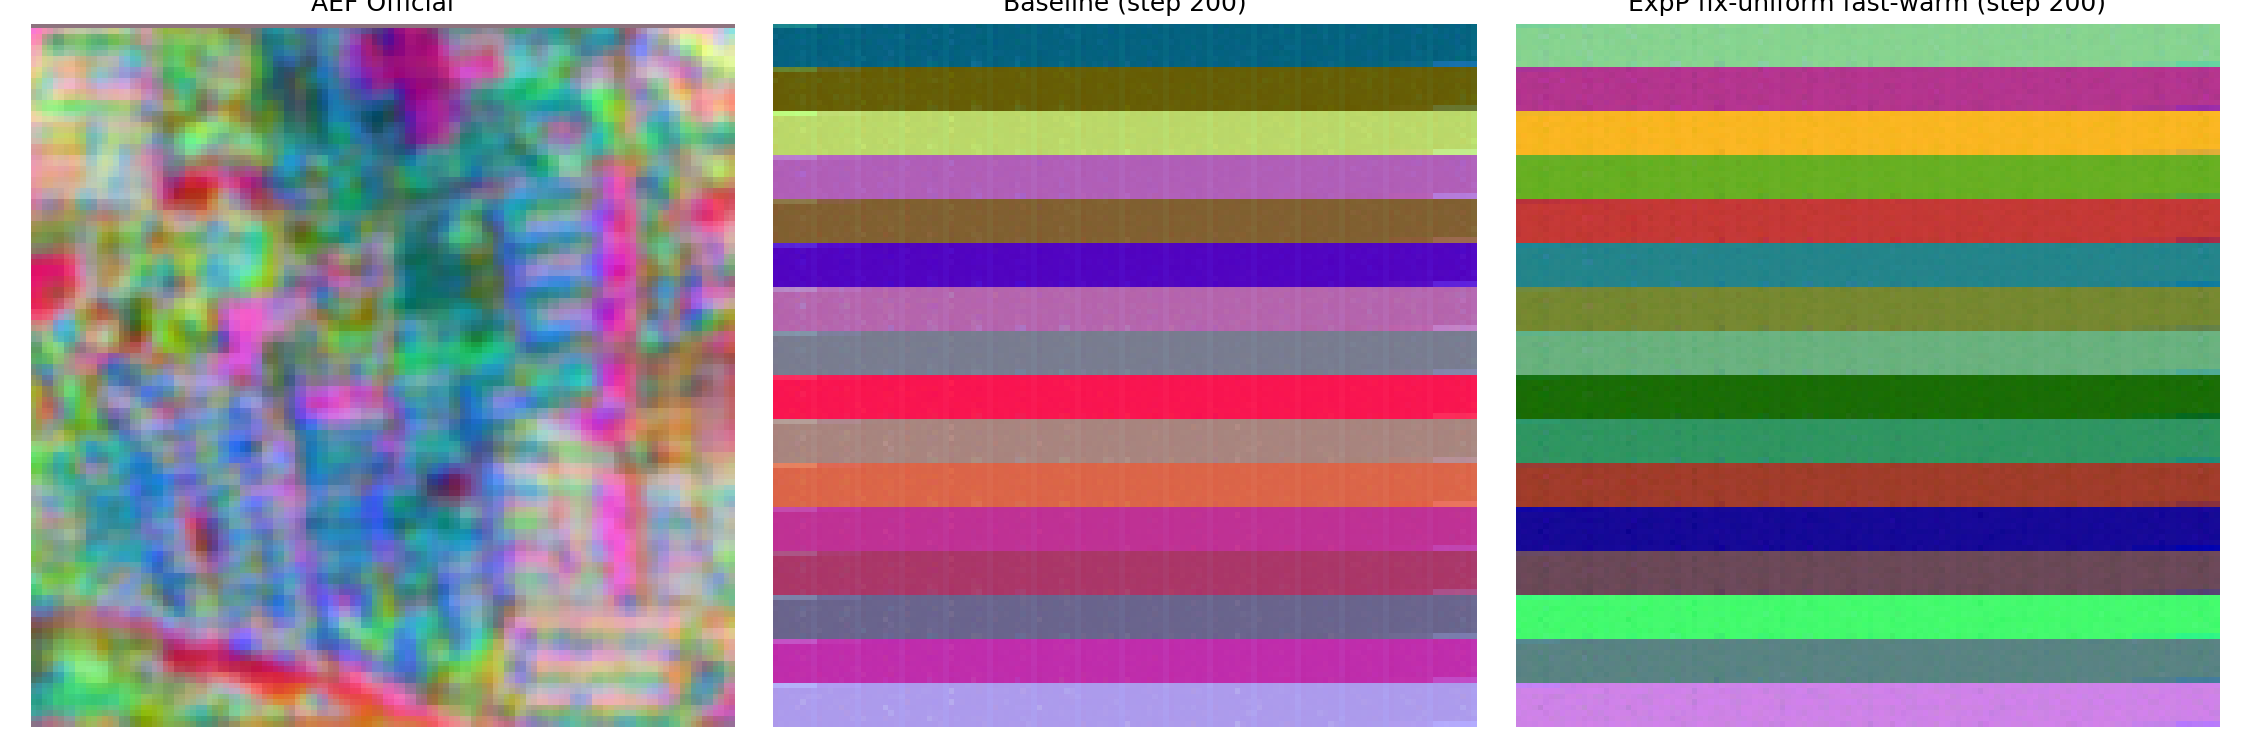
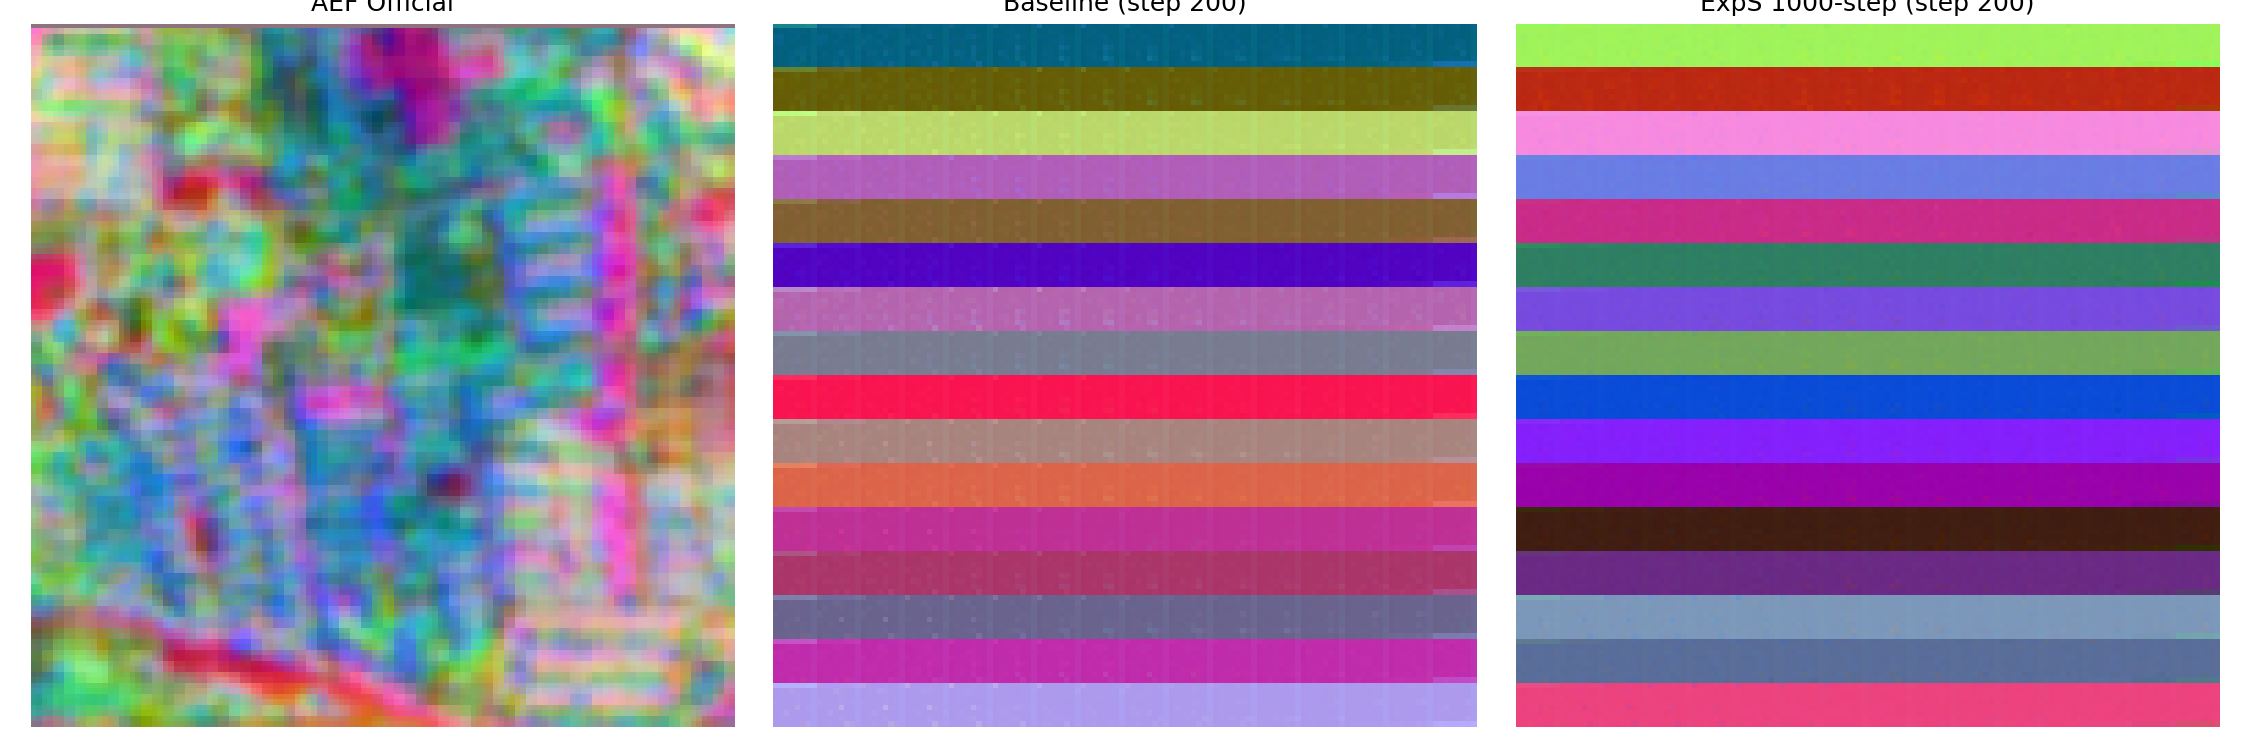
Add per-head spatial query bias to TimePooling (ExpS)

Changed region(s): [[0.6533, 0.0, 0.9956, 0.9813]]

diff --git a/aef_reference/debug_viz_single.py b/aef_reference/debug_viz_single.py
@@ -1,4 +1,3 @@
-"""Quick visualization of embedding for a single checkpoint"""
 import sys
 sys.path.insert(0, "/workspace/xuannv")
 sys.path.insert(0, "/workspace/xuannv/aef_reference")
@@ -30,12 +29,23 @@ def load_model(checkpoint_path):
             new_state_dict[k[7:]] = v
         else:
             new_state_dict[k] = v
-    model.load_state_dict(new_state_dict, strict=False)
+    missing, unexpected = model.load_state_dict(new_state_dict, strict=False)
+    print(f"Missing: {len(missing)}, Unexpected: {len(unexpected)}")
     return model
+
+def embed_to_rgb(emb):
+    H, W, D = emb.shape
+    flat = emb.reshape(-1, D)
+    mean = flat.mean(axis=0)
+    centered = flat - mean
+    _, _, vh = np.linalg.svd(centered, full_matrices=False)
+    basis = vh[:3].T
+    proj = centered @ basis
+    proj = (proj - proj.min(axis=0)) / (proj.max(axis=0) - proj.min(axis=0) + 1e-8)
+    return proj.reshape(H, W, 3)
 
 device = "npu:0"
 
-# Load sample
 dataset = HaidianAEFDataset(
     data_root="/workspace/xuannv/data_raw/haidian/scenes",
     planet_root="/workspace/xuannv/data_raw/beijing/planetscene",
@@ -58,48 +68,37 @@ source_data = {k: v.to(device) for k, v in batch["source_data"].items()}
 timestamps = {k: v.to(device) for k, v in batch["timestamps"].items()}
 valid_periods = batch["valid_periods"]
 
-def embed_to_rgb(emb):
-    """PCA to RGB"""
-    H, W, D = emb.shape
-    flat = emb.reshape(-1, D)
-    mean = flat.mean(axis=0)
-    centered = flat - mean
-    _, _, vh = np.linalg.svd(centered, full_matrices=False)
-    basis = vh[:3].T
-    proj = centered @ basis
-    proj = (proj - proj.min(axis=0)) / (proj.max(axis=0) - proj.min(axis=0) + 1e-8)
-    return proj.reshape(H, W, 3)
-
-# Visualize multiple checkpoints
-checkpoints = {
-    "Baseline (step 200)": "/workspace/xuannv/aef_reference/outputs/aef_distill_seed42/step_000200_seed42.pt",
-    "ExpS 1000-step (step 200)": "/workspace/xuannv/aef_reference/outputs/aef_distill_expS_1000steps_seed42/step_000200_seed42.pt",
-}
-
-fig, axes = plt.subplots(1, 3, figsize=(15, 5))
-
 # AEF Official
 aef_emb_path = f"/workspace/xuannv/data_raw/haidian/aef_embeddings/haidian_2025_patches/{patch_id}.npy"
 aef_emb = np.load(aef_emb_path)
 aef_emb = np.transpose(aef_emb, (1, 2, 0))
 aef_rgb = embed_to_rgb(aef_emb)
+
+# New checkpoint
+checkpoint_path = "/workspace/xuannv/aef_reference/outputs/aef_distill_seed42/step_000200_seed42.pt"
+model = load_model(checkpoint_path).to(device)
+model.eval()
+with torch.no_grad():
+    out = model(source_data, timestamps, valid_periods)
+student_emb = out["embeddings"][0].detach().cpu().numpy()
+student_rgb = embed_to_rgb(student_emb)
+
+fig, axes = plt.subplots(1, 3, figsize=(15, 5))
 axes[0].imshow(aef_rgb)
 axes[0].set_title("AEF Official")
 axes[0].axis('off')
 
-idx = 1
-for name, path in checkpoints.items():
-    model = load_model(path).to(device)
-    model.eval()
-    with torch.no_grad():
-        out = model(source_data, timestamps, valid_periods)
-    student_emb = out["embeddings"][0].detach().cpu().numpy()
-    student_rgb = embed_to_rgb(student_emb)
-    axes[idx].imshow(student_rgb)
-    axes[idx].set_title(name)
-    axes[idx].axis('off')
-    idx += 1
+axes[1].imshow(student_rgb)
+axes[1].set_title("Spatial Q Bias (step 200)")
+axes[1].axis('off')
+
+# Diff
+diff = np.abs(student_rgb - aef_rgb).mean(axis=-1)
+im = axes[2].imshow(diff, cmap='hot')
+axes[2].set_title("|Student - AEF|")
+axes[2].axis('off')
+plt.colorbar(im, ax=axes[2], fraction=0.046)
 
 plt.tight_layout()
-plt.savefig("/workspace/xuannv/aef_reference/debug_viz_comparison.png", dpi=150)
-print("Saved to debug_viz_comparison.png")
+plt.savefig("/workspace/xuannv/aef_reference/debug_viz_spatial_q.png", dpi=150)
+print("Saved to debug_viz_spatial_q.png")

diff --git a/aef_reference/quick_stats_cpu.py b/aef_reference/quick_stats_cpu.py
@@ -1,14 +1,9 @@
-"""Quick visualization of embedding for a single checkpoint"""
 import sys
 sys.path.insert(0, "/workspace/xuannv")
 sys.path.insert(0, "/workspace/xuannv/aef_reference")
 
 import torch
 import numpy as np
-import matplotlib
-matplotlib.use('Agg')
-import matplotlib.pyplot as plt
-import torch_npu
 from src.aef.architecture.aef_module import AlphaEarthFoundations
 from src.aef.data.haidian_dataset import HaidianAEFDataset, collate_fn
 
@@ -33,9 +28,8 @@ def load_model(checkpoint_path):
     model.load_state_dict(new_state_dict, strict=False)
     return model
 
-device = "npu:0"
+device = "cpu"
 
-# Load sample
 dataset = HaidianAEFDataset(
     data_root="/workspace/xuannv/data_raw/haidian/scenes",
     planet_root="/workspace/xuannv/data_raw/beijing/planetscene",
@@ -58,48 +52,26 @@ source_data = {k: v.to(device) for k, v in batch["source_data"].items()}
 timestamps = {k: v.to(device) for k, v in batch["timestamps"].items()}
 valid_periods = batch["valid_periods"]
 
-def embed_to_rgb(emb):
-    """PCA to RGB"""
-    H, W, D = emb.shape
-    flat = emb.reshape(-1, D)
-    mean = flat.mean(axis=0)
-    centered = flat - mean
-    _, _, vh = np.linalg.svd(centered, full_matrices=False)
-    basis = vh[:3].T
-    proj = centered @ basis
-    proj = (proj - proj.min(axis=0)) / (proj.max(axis=0) - proj.min(axis=0) + 1e-8)
-    return proj.reshape(H, W, 3)
+checkpoint_path = "/workspace/xuannv/aef_reference/outputs/aef_distill_seed42/step_000200_seed42.pt"
+print(f"Loading {checkpoint_path}...")
+model = load_model(checkpoint_path).to(device)
+model.eval()
+print("Running forward...")
+with torch.no_grad():
+    out = model(source_data, timestamps, valid_periods)
 
-# Visualize multiple checkpoints
-checkpoints = {
-    "Baseline (step 200)": "/workspace/xuannv/aef_reference/outputs/aef_distill_seed42/step_000200_seed42.pt",
-    "ExpS 1000-step (step 200)": "/workspace/xuannv/aef_reference/outputs/aef_distill_expS_1000steps_seed42/step_000200_seed42.pt",
-}
+student_emb = out["embeddings"][0].detach().cpu().numpy()
+H, W, D = student_emb.shape
 
-fig, axes = plt.subplots(1, 3, figsize=(15, 5))
+row_means = student_emb.mean(axis=1)
+row_mean_std = row_means.std(axis=0).mean()
+within_row_std = student_emb.std(axis=1).mean()
 
-# AEF Official
-aef_emb_path = f"/workspace/xuannv/data_raw/haidian/aef_embeddings/haidian_2025_patches/{patch_id}.npy"
-aef_emb = np.load(aef_emb_path)
-aef_emb = np.transpose(aef_emb, (1, 2, 0))
-aef_rgb = embed_to_rgb(aef_emb)
-axes[0].imshow(aef_rgb)
-axes[0].set_title("AEF Official")
-axes[0].axis('off')
+row_flat = student_emb.reshape(H, W * D)
+row_norm = row_flat / (np.linalg.norm(row_flat, axis=1, keepdims=True) + 1e-8)
+cos_sims = [np.dot(row_norm[h], row_norm[h+1]) for h in range(H - 1)]
+avg_cos_sim = np.mean(cos_sims)
 
-idx = 1
-for name, path in checkpoints.items():
-    model = load_model(path).to(device)
-    model.eval()
-    with torch.no_grad():
-        out = model(source_data, timestamps, valid_periods)
-    student_emb = out["embeddings"][0].detach().cpu().numpy()
-    student_rgb = embed_to_rgb(student_emb)
-    axes[idx].imshow(student_rgb)
-    axes[idx].set_title(name)
-    axes[idx].axis('off')
-    idx += 1
-
-plt.tight_layout()
-plt.savefig("/workspace/xuannv/aef_reference/debug_viz_comparison.png", dpi=150)
-print("Saved to debug_viz_comparison.png")
+print(f"Row mean std: {row_mean_std:.6f}")
+print(f"Within-row std: {within_row_std:.6f}")
+print(f"Adjacent row cos_sim: {avg_cos_sim:.6f}")

diff --git a/aef_reference/quick_stats.py b/aef_reference/quick_stats.py
@@ -1,13 +1,9 @@
-"""Quick visualization of embedding for a single checkpoint"""
 import sys
 sys.path.insert(0, "/workspace/xuannv")
 sys.path.insert(0, "/workspace/xuannv/aef_reference")
 
 import torch
 import numpy as np
-import matplotlib
-matplotlib.use('Agg')
-import matplotlib.pyplot as plt
 import torch_npu
 from src.aef.architecture.aef_module import AlphaEarthFoundations
 from src.aef.data.haidian_dataset import HaidianAEFDataset, collate_fn
@@ -35,7 +31,6 @@ def load_model(checkpoint_path):
 
 device = "npu:0"
 
-# Load sample
 dataset = HaidianAEFDataset(
     data_root="/workspace/xuannv/data_raw/haidian/scenes",
     planet_root="/workspace/xuannv/data_raw/beijing/planetscene",
@@ -58,48 +53,26 @@ source_data = {k: v.to(device) for k, v in batch["source_data"].items()}
 timestamps = {k: v.to(device) for k, v in batch["timestamps"].items()}
 valid_periods = batch["valid_periods"]
 
-def embed_to_rgb(emb):
-    """PCA to RGB"""
-    H, W, D = emb.shape
-    flat = emb.reshape(-1, D)
-    mean = flat.mean(axis=0)
-    centered = flat - mean
-    _, _, vh = np.linalg.svd(centered, full_matrices=False)
-    basis = vh[:3].T
-    proj = centered @ basis
-    proj = (proj - proj.min(axis=0)) / (proj.max(axis=0) - proj.min(axis=0) + 1e-8)
-    return proj.reshape(H, W, 3)
+checkpoint_path = "/workspace/xuannv/aef_reference/outputs/aef_distill_seed42/step_000200_seed42.pt"
+print(f"Loading {checkpoint_path}...")
+model = load_model(checkpoint_path).to(device)
+model.eval()
+print("Running forward...")
+with torch.no_grad():
+    out = model(source_data, timestamps, valid_periods)
 
-# Visualize multiple checkpoints
-checkpoints = {
-    "Baseline (step 200)": "/workspace/xuannv/aef_reference/outputs/aef_distill_seed42/step_000200_seed42.pt",
-    "ExpS 1000-step (step 200)": "/workspace/xuannv/aef_reference/outputs/aef_distill_expS_1000steps_seed42/step_000200_seed42.pt",
-}
+student_emb = out["embeddings"][0].detach().cpu().numpy()
+H, W, D = student_emb.shape
 
-fig, axes = plt.subplots(1, 3, figsize=(15, 5))
+row_means = student_emb.mean(axis=1)
+row_mean_std = row_means.std(axis=0).mean()
+within_row_std = student_emb.std(axis=1).mean()
 
-# AEF Official
-aef_emb_path = f"/workspace/xuannv/data_raw/haidian/aef_embeddings/haidian_2025_patches/{patch_id}.npy"
-aef_emb = np.load(aef_emb_path)
-aef_emb = np.transpose(aef_emb, (1, 2, 0))
-aef_rgb = embed_to_rgb(aef_emb)
-axes[0].imshow(aef_rgb)
-axes[0].set_title("AEF Official")
-axes[0].axis('off')
+row_flat = student_emb.reshape(H, W * D)
+row_norm = row_flat / (np.linalg.norm(row_flat, axis=1, keepdims=True) + 1e-8)
+cos_sims = [np.dot(row_norm[h], row_norm[h+1]) for h in range(H - 1)]
+avg_cos_sim = np.mean(cos_sims)
 
-idx = 1
-for name, path in checkpoints.items():
-    model = load_model(path).to(device)
-    model.eval()
-    with torch.no_grad():
-        out = model(source_data, timestamps, valid_periods)
-    student_emb = out["embeddings"][0].detach().cpu().numpy()
-    student_rgb = embed_to_rgb(student_emb)
-    axes[idx].imshow(student_rgb)
-    axes[idx].set_title(name)
-    axes[idx].axis('off')
-    idx += 1
-
-plt.tight_layout()
-plt.savefig("/workspace/xuannv/aef_reference/debug_viz_comparison.png", dpi=150)
-print("Saved to debug_viz_comparison.png")
+print(f"Row mean std: {row_mean_std:.6f}")
+print(f"Within-row std: {within_row_std:.6f}")
+print(f"Adjacent row cos_sim: {avg_cos_sim:.6f}")

diff --git a/aef_reference/src/aef/architecture/aef_module.py b/aef_reference/src/aef/architecture/aef_module.py
@@ -17,10 +17,12 @@ from src.aef.architecture.encoder_utils import IndividualSourceEncoder, SummaryP
 
 class TimePooling(nn.Module):
     """
-    Single-query multi-head attention over time at each (h,w).
+    Spatial-aware multi-head attention over time at each (h,w).
+    Key change: generates per-position queries using 2D spatial encoding
+    instead of a single global query, breaking horizontal striping artifacts.
     Inputs:
       feats: (B, T, H, W, C)
-      q:     (B, C)           — from SummaryPeriodEncoder
+      q:     (B, C)           — from SummaryPeriodEncoder (global temporal context)
       mask:  (B, T) optional  — 1 for valid frames, 0 for padded/missing
     Output:
       z:     (B, H, W, C)
@@ -35,6 +37,9 @@ class TimePooling(nn.Module):
         self.kv = nn.Linear(dim, 2 * dim)     # to K,V
         self.q_proj = nn.Linear(dim, dim)     # to Q
         self.out = nn.Linear(dim, dim)
+        
+        # 2D spatial query encoding: per-head bias to break symmetry
+        self.spatial_q_bias = nn.Parameter(torch.zeros(1, num_heads, 1, self.head_dim))
 
     def forward(self, feats: torch.Tensor, q: torch.Tensor, mask: torch.Tensor | None = None):
         B, T, H, W, C = feats.shape
@@ -47,10 +52,15 @@ class TimePooling(nn.Module):
         K = K.permute(0, 2, 1, 3)                                      # (BHW, heads, T, d)
         V = V.permute(0, 2, 1, 3)                                      # (BHW, heads, T, d)
 
-        # single query per sample, broadcast to all (h,w)
+        # Per-spatial-position query: global temporal query + learned spatial bias
+        # This breaks y-direction symmetry that causes horizontal striping
         qh = self.q_proj(q).view(B, self.num_heads, self.head_dim)     # (B, heads, d)
         qh = qh.unsqueeze(1).expand(B, H * W, self.num_heads, self.head_dim) \
                .reshape(BHW, self.num_heads, 1, self.head_dim)         # (BHW, heads, 1, d)
+        
+        # Add spatial variation to queries (different for each head)
+        spatial_bias = self.spatial_q_bias.expand(BHW, self.num_heads, 1, self.head_dim)
+        qh = qh + spatial_bias
 
         # scaled dot-product attention over time
         logits = (qh * K).sum(-1) / (self.head_dim ** 0.5)             # (BHW, heads, 1, T)

diff --git a/aef_reference/debug_embedding_stats.py b/aef_reference/debug_embedding_stats.py
@@ -58,8 +58,8 @@ valid_periods = batch["valid_periods"]
 # Check multiple checkpoints
 checkpoints = {
     "Step 200 (baseline)": "/workspace/xuannv/aef_reference/outputs/aef_distill_seed42/step_000200_seed42.pt",
-    "Step 200 (expP fix-uniform + fast-warm)": "/workspace/xuannv/aef_reference/outputs/aef_distill_expP_fixuniform_seed42/step_000200_seed42.pt",
-    "Step 200 (expQ local_sp=20.0, no-distill)": "/workspace/xuannv/aef_reference/outputs/aef_distill_expQ_highlocal_seed42/step_000200_seed42.pt",
+    "Step 200 (expS 1000-step train)": "/workspace/xuannv/aef_reference/outputs/aef_distill_expS_1000steps_seed42/step_000200_seed42.pt",
+    "Step 200 (spatial q bias)": "/workspace/xuannv/aef_reference/outputs/aef_distill_seed42/step_000200_seed42.pt",
 }
 
 for name, path in checkpoints.items():
